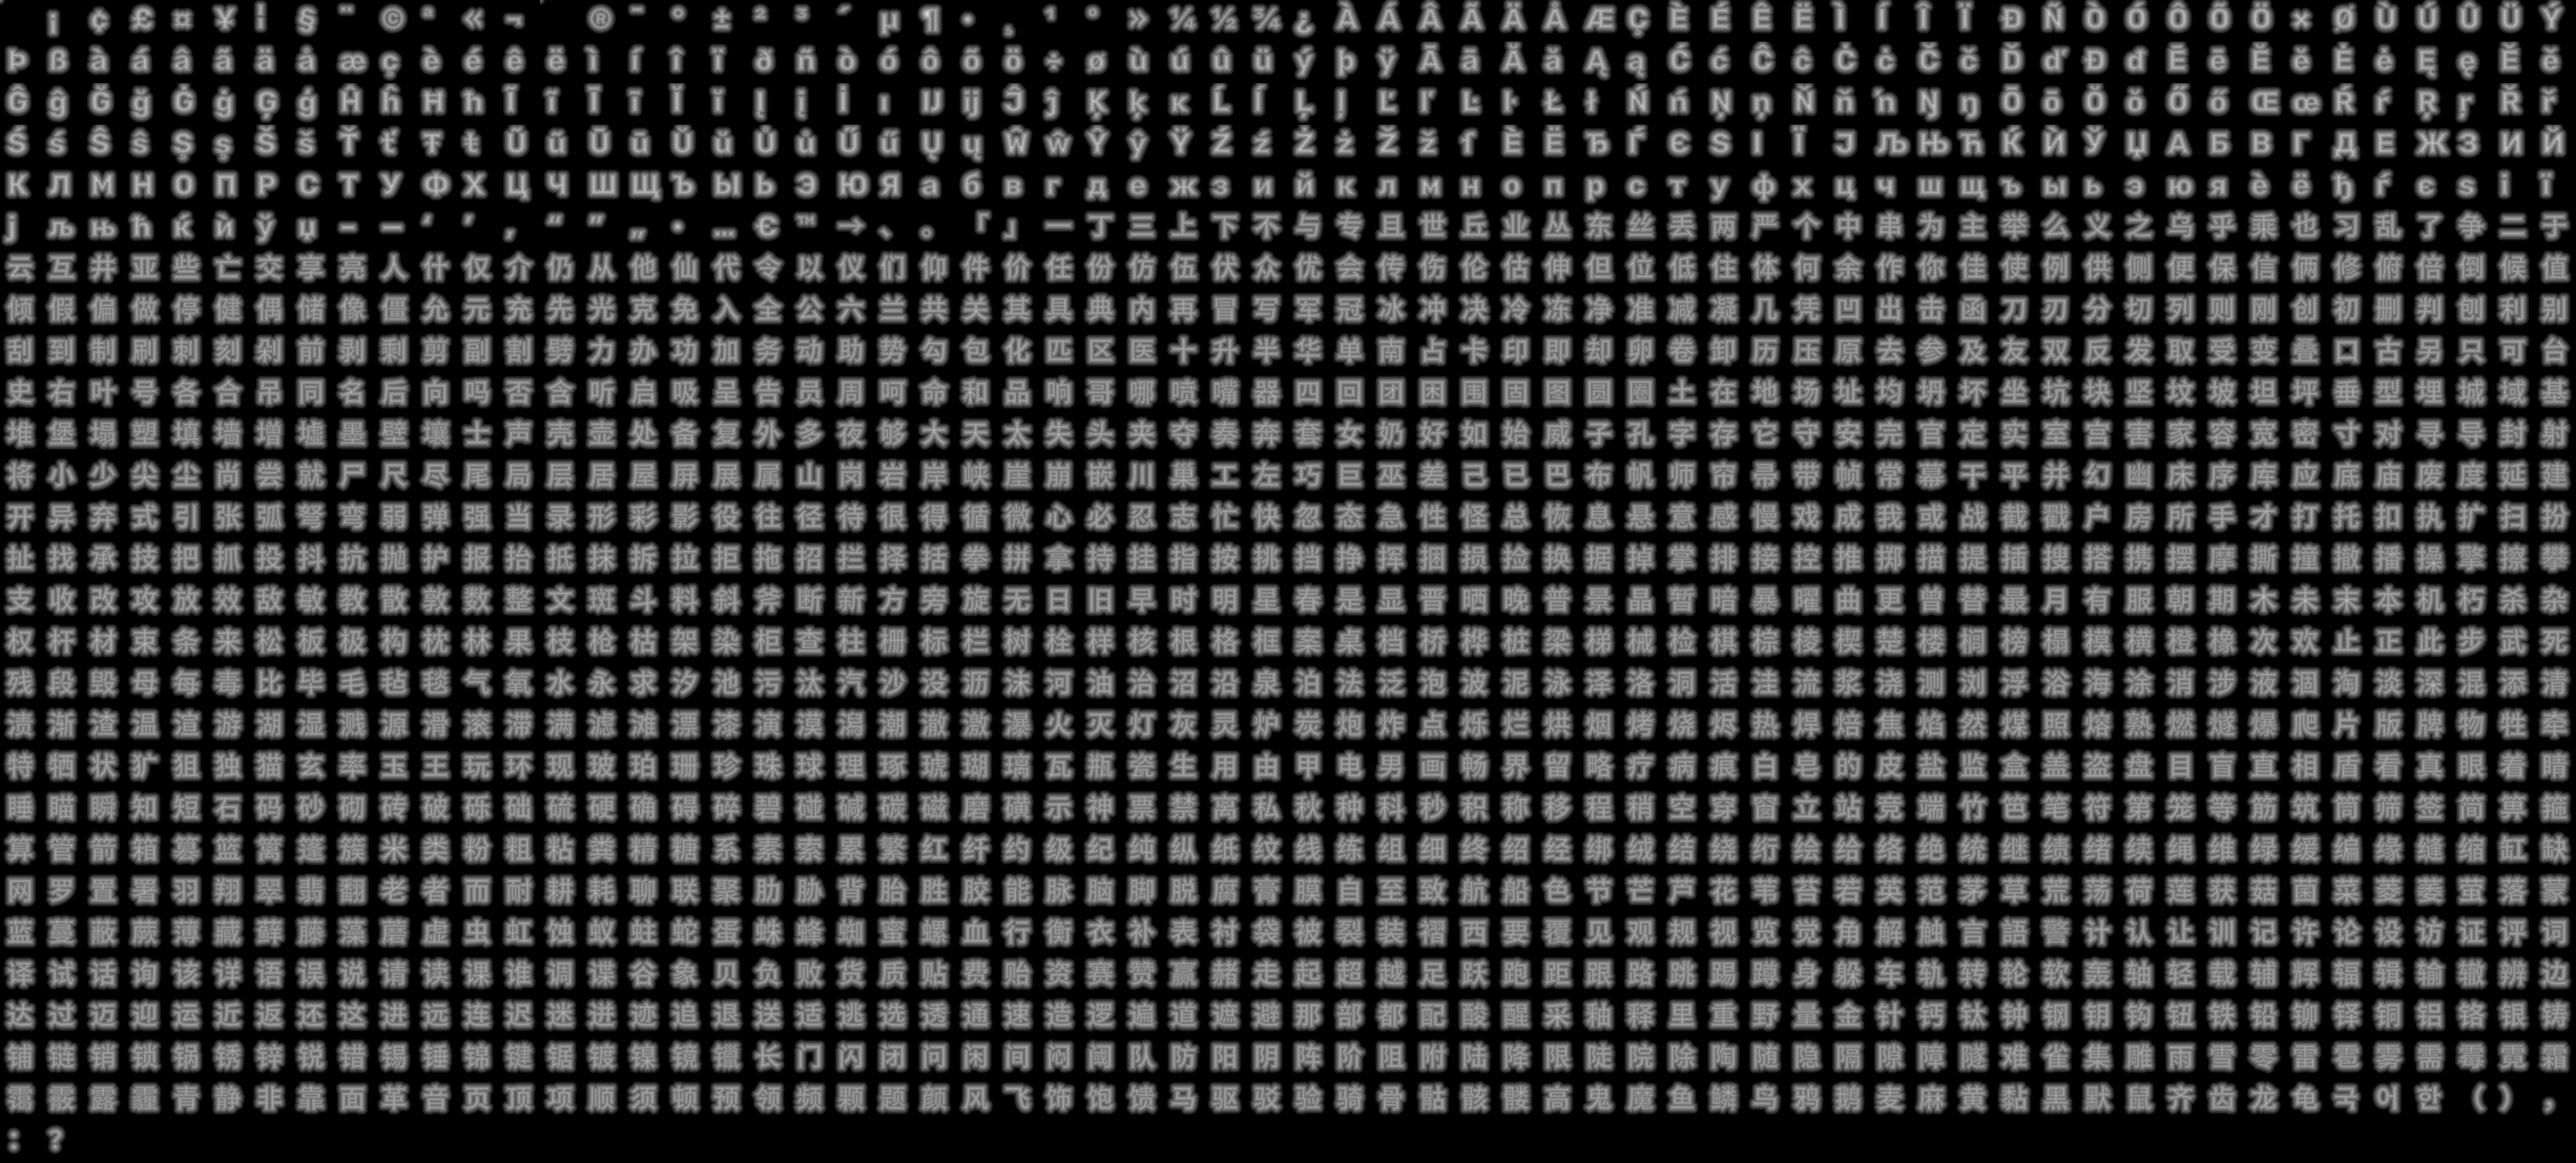
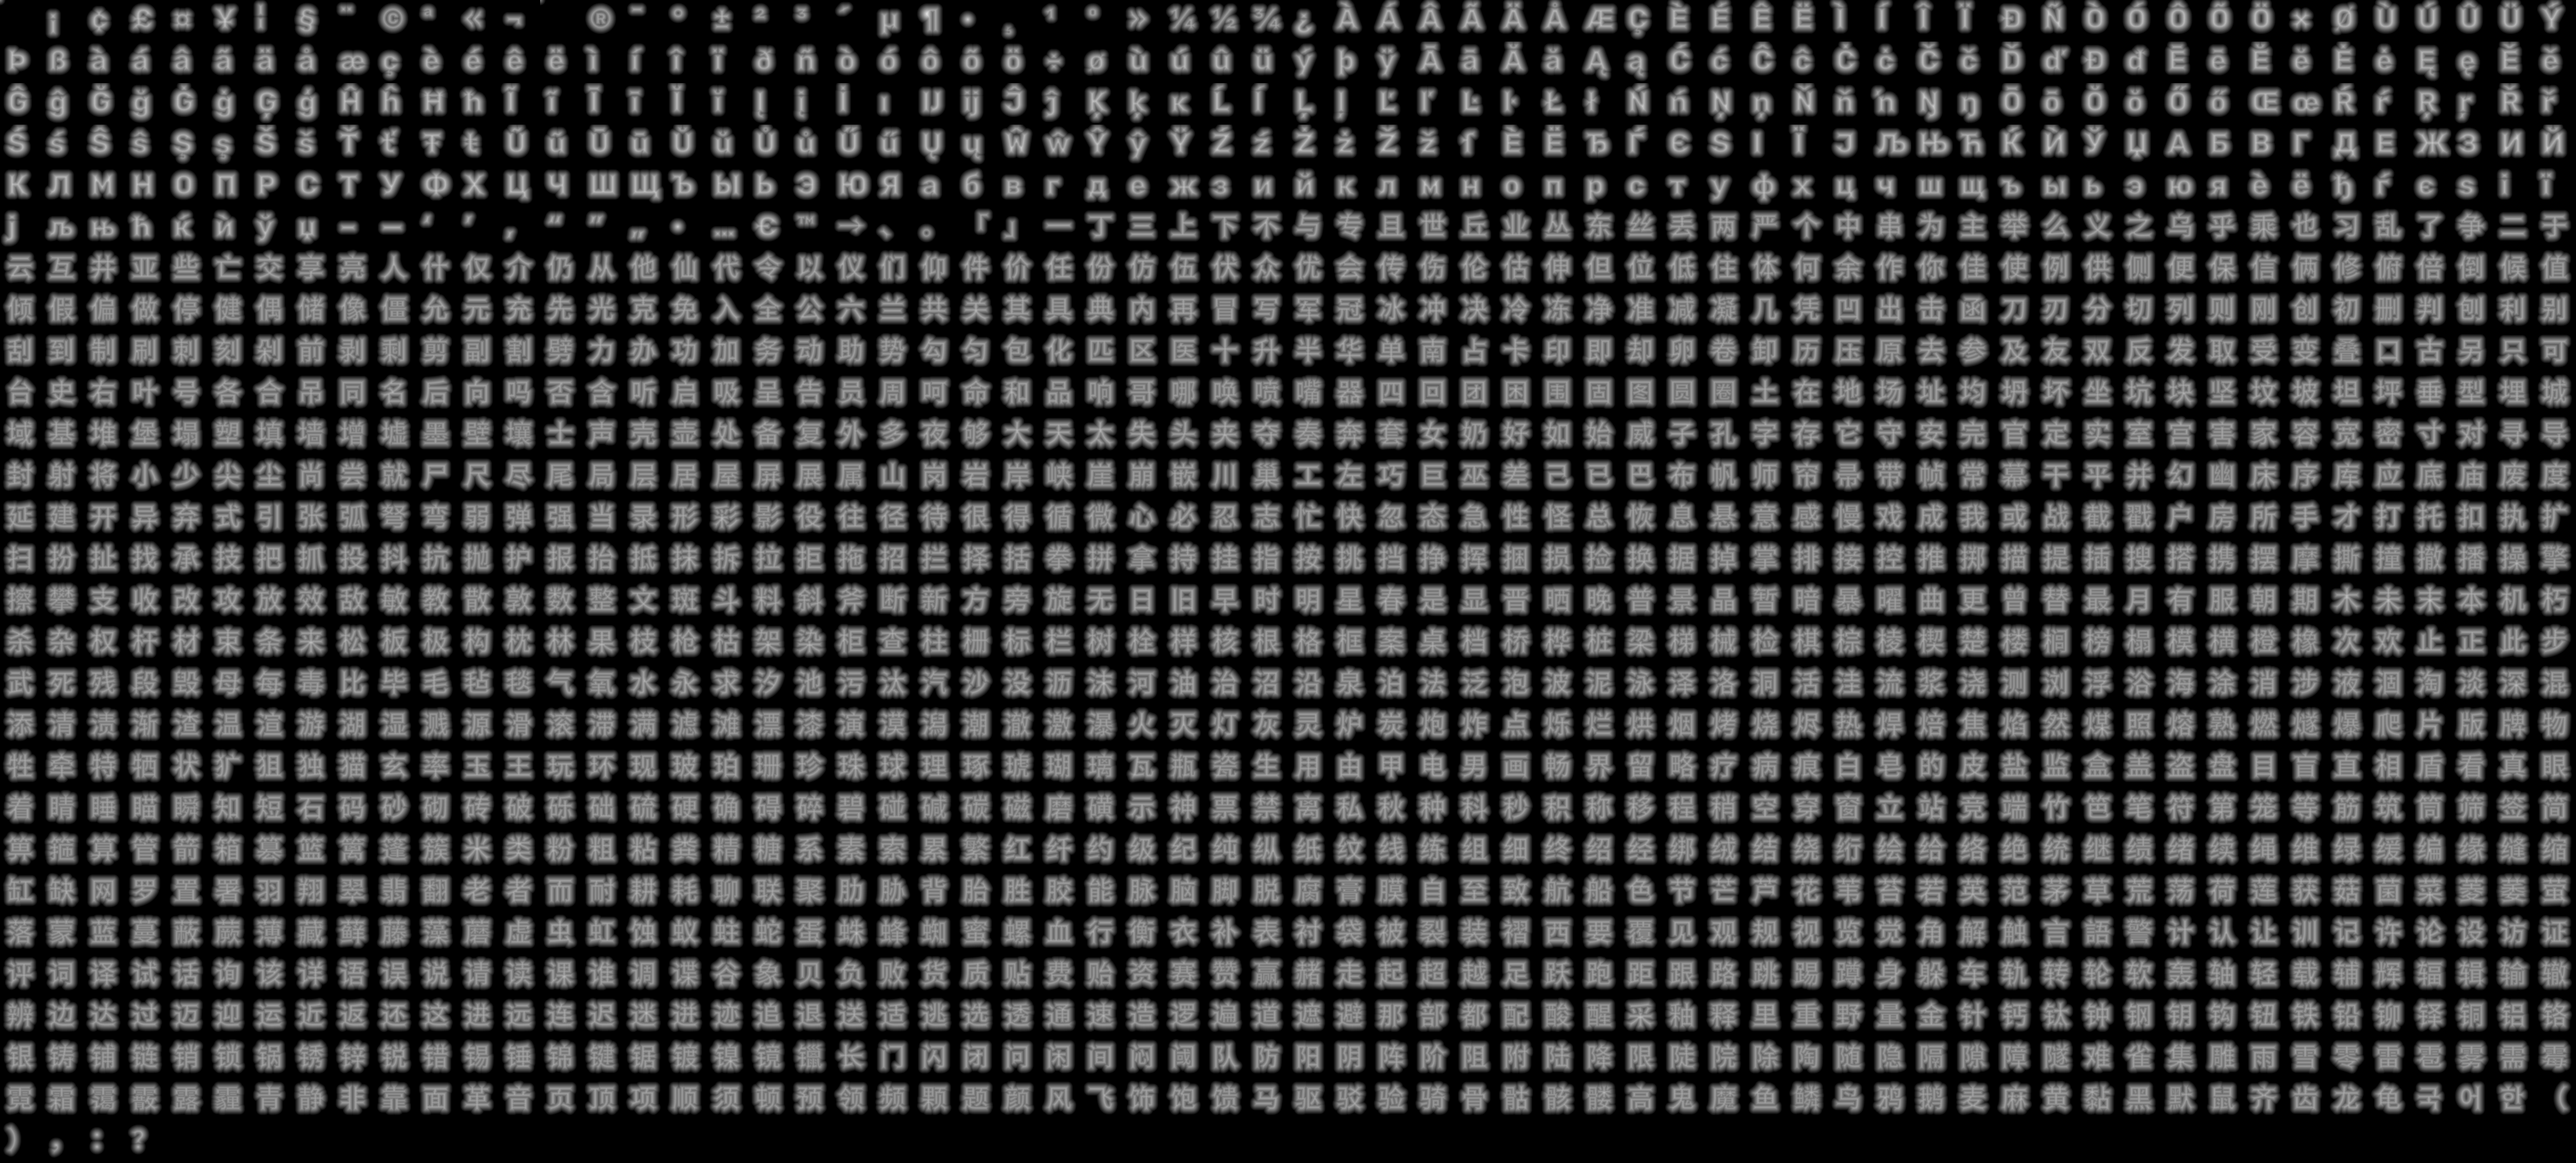
Frame cap offset setting; cursor re-hold only when it moved
Claude-Session: https://claude.ai/code/session_011AGrDgwsutW9dRne4uKF8H

diff --git a/src/client/config.cpp b/src/client/config.cpp
@@ -156,6 +156,7 @@ void Settings::set(const std::string& k, const std::string& v) {
             // AUTO. Any other value was picked and stays; 0, the lowest it had, is 1 us now (0 is AUTO; the same in practice).
             if (!ultraMarginMigrated) ultraMarginUs = ultraMarginUs == 150 ? 0 : ultraMarginUs == 0 ? 1 : ultraMarginUs;
         }
+        else if (k == "cap_offset_us") capOffsetUs = std::min(std::max(iv, -1), 5000);
         else if (k == "ultra_margin_auto") ultraMarginMigrated = iv != 0;
         else if (k == "display_default") displayMigrated = iv != 0;
         else if (k == "nv_threaded") nvThreaded = iv != 0;
@@ -449,7 +450,7 @@ std::string Settings::toText() const {
       << "\nfx_color_mode=" << fxColorMode << "\nfx_color=" << colorHex(fxColor) << "\nobj_palette=" << objPalette << "\nsky_override=" << skyOverride << "\nglow_override=" << glowOverride
       << "\nsky_color=" << colorHex(skyColor) << "\nglow_color=" << colorHex(glowColor) << "\nhigh_contrast=" << highContrast << "\nf3_safe=" << f3Safe << "\non_top=" << onTop << "\ngun_color=" << gunColor
       << "\ngun_custom=" << colorHex(gunCustom) << "\nobj_opacity=" << objOpacity << "\nobj_pulse=" << objPulse << "\ndash_buffer=" << dashBuffer << "\nsmooth_amt=" << smoothAmt << "\nlightmap_nearest=" << lightmapNearest
-      << "\nwallbang_tint=" << wallbangTint << "\nwallbang_color=" << colorHex(wallbangColor) << "\nultra_margin_auto=1" << "\nultra_margin_us=" << ultraMarginUs << "\nnv_threaded=" << nvThreaded << "\nnv_dxgi=" << nvDxgi
+      << "\nwallbang_tint=" << wallbangTint << "\nwallbang_color=" << colorHex(wallbangColor) << "\nultra_margin_auto=1" << "\nultra_margin_us=" << ultraMarginUs << "\ncap_offset_us=" << capOffsetUs << "\nnv_threaded=" << nvThreaded << "\nnv_dxgi=" << nvDxgi
       << "\nquip_captions=" << quipCaptions << "\nann_duck=" << annDuck;
     for (int i = 0; i < 3; i++) if (!colorPreset[i].empty()) f << "\ncolor_preset_" << i + 1 << "=" << colorPreset[i];
     for (auto& b : cmdBinds) f << "\ncbind_" << b.first << "=" << b.second;

diff --git a/src/client/main.cpp b/src/client/main.cpp
@@ -223,11 +223,17 @@ int main(int argc, char** argv) {
     while (!glfwWindowShouldClose(win) && !game.quitRequested()) {
         game.pipeMark(Game::PM_FRAME);   // (F3's pipeline graph: the frame's parts)
         // Frame cap: wait *before* reading input, so the frame shows the freshest input possible.
+        // FRAME CAP OFFSET (owner, 2026-11-03): it wakes that much before the deadline, does the parts that take a varying
+        // time (the low-latency GPU wait, the network), then spins to the deadline and reads the mouse there: one of them
+        // running 20-50 us long no longer makes that frame late and the next short (the 0.1% low at a 1000 cap).
+        bool capped = false;
         if (game.maxFps() > 0) {
             double period = 1.0 / game.maxFps();
             double target = frameStart + period;
-            capWait.wait(target);
-            frameStart = std::max(target, timeNow() - period); // keep the cadence (no slow drift below the cap), but don't try to catch up after a hitch
+            const double off = game.capOffset(period);
+            capWait.wait(target - off);
+            frameStart = std::max(target, timeNow() + off - period); // keep the cadence (no slow drift below the cap), but don't try to catch up after a hitch
+            capped = off > 0;
         } else {
             frameStart = timeNow();
         }
@@ -235,6 +241,7 @@ int main(int argc, char** argv) {
         game.beforeInput();
         game.pipeMark(Game::PM_FENCE);
         game.preInput();   // (the network: before the mouse is read)
+        if (capped) while (timeNow() < frameStart) cpuRelax();   // (the head start's rest: the mouse is read on the deadline)
         game.pipeMark(Game::PM_NET);
         game.readMouse();   // (raw mouse reports in one read; GLFW's poll gets the rest)
         { QZONE("poll events"); glfwPollEvents(); }

diff --git a/src/client/game.cpp b/src/client/game.cpp
@@ -8352,6 +8352,16 @@ void Game::drawMoreSettings(const SetLayout& L) {
             g.next();
             g.hint("LOW LATENCY: ULTRA STARTS EACH FRAME THIS EARLY;", "AUTO LEARNS IT; MORE: FEWER GPU BUBBLES, MORE LAG");
         }
+        {
+            float v = (float)cfg_.capOffsetUs;   // (-1, the far left: AUTO, 5% of the cap's frame; 0: off)
+            char autoTxt[48];
+            snprintf(autoTxt, sizeof autoTxt, "AUTO (%.0f US)", maxFps() > 0 ? capOffset(1.0 / maxFps()) * 1e6 : 0.0);
+            const std::string shown = cfg_.capOffsetUs < 0 ? (maxFps() > 0 ? std::string(autoTxt) : std::string("AUTO")) : cfg_.capOffsetUs == 0 ? std::string("OFF") : std::string("%.0f US");
+            ui_.slider(g.x(), g.top(), w, h, "FRAME CAP OFFSET", v, -1, 1000, shown.c_str(), UiExp::cfg("cap_offset_us"), (float)d.capOffsetUs);
+            cfg_.capOffsetUs = std::min(std::max(-1, (int)std::lround(v)), 5000);
+            g.next();
+            g.hint("FPS LIMIT: WAKES THIS EARLY, THEN WAITS EXACTLY TO THE", "FRAME'S START: EVEN FRAMES; AUTO 5% OF THE FRAME");
+        }
         if (ui_.toggle(g.x(), g.top(), hw, h, "NV THREADED OFF", cfg_.nvThreaded, UiExp::cfg("nv_threaded"))) {
             std::string msg = "NOT CHANGED IN THE UI TEST";
             if (!uiTest_ && !nvThreadedOff(cfg_.nvThreaded, &msg)) cfg_.nvThreaded = false;

diff --git a/src/client/config.h b/src/client/config.h
@@ -45,6 +45,7 @@ struct Settings {
     bool prioritize = true;     // Windows: GPU + CPU priority raised while the game has focus (setGamePriority)
     int lowLatency = 1;         // 0 off, 1 on (max 1 frame queued), 2 ultra (0 queued, just-in-time input)
     int maxFps = 0;             // 0 = unlimited
+    int capOffsetUs = -1;       // LATENCY > FRAME CAP OFFSET: the cap wakes this early, runs the GPU wait / network, then spins to the deadline before the mouse read; -1 AUTO (5% of the cap's frame), 0 off
     int width = 1280, height = 720;
     int winX = -100000, winY = -100000;   // the window's last position when windowed (-100000: never moved; 100 px in)
     int bgFps = 60;             // VIDEO > MORE: the frame cap while the window isn't focused or is minimized (0 = FPS LIMIT as usual)

diff --git a/src/client/game.h b/src/client/game.h
@@ -118,6 +118,11 @@ public:
     void shutdown();
     void frame(double dt);
     bool quitRequested() const { return quit_; }
+    // the frame cap's head start (s) for a cap of `period` s: LATENCY > FRAME CAP OFFSET (AUTO: 5% of the period)
+    double capOffset(double period) const {
+        const double o = cfg_.capOffsetUs < 0 ? period * 0.05 : cfg_.capOffsetUs * 1e-6;
+        return std::min(o, period * 0.5);   // (never more than half the frame: the rest is the frame's own)
+    }
     int maxFps() const {   // (VIDEO > MORE: WHEN UNFOCUSED caps it while the window is in the background or minimized)
         int cap = cfg_.maxFps;
         if (cfg_.vrr && vrrHz_ > 3) cap = cap > 0 ? std::min(cap, vrrHz_ - 3) : vrrHz_ - 3;   // (VRR: under the refresh, never at it)

diff --git a/src/client/rawmouse.cpp b/src/client/rawmouse.cpp
@@ -92,6 +92,12 @@ void RawMouse::hold(GLFWwindow* w, bool on) {
     POINT c = {(r.left + r.right) / 2, (r.top + r.bottom) / 2};
     ClientToScreen(h, &c);
     RECT one = {c.x, c.y, c.x + 1, c.y + 1};
+    // (called again every 0.5 s in case the window moved or Windows let the cursor go: when it's still held where it
+    // should be, nothing is set. SetCursorPos posts a mouse-move the next poll handles, and the two calls cost the
+    // frame ~8 us and the one after it ~20 us: a pair of late frames twice a second, owner's 1000 FPS cap runs 2026-11-03)
+    RECT cur;
+    POINT at;
+    if (GetClipCursor(&cur) && GetCursorPos(&at) && EqualRect(&cur, &one) && at.x == c.x && at.y == c.y) return;
     SetCursorPos(c.x, c.y);
     ClipCursor(&one);
 }

diff --git a/changelogs/full/next.md b/changelogs/full/next.md
@@ -80,7 +80,9 @@ Every change since 1.19.7, with what changed and why.
   - Not Windows: WINDOWS ONLY.
 
 - **The frame cap learns the timer's lateness** (owner, 2026-11-03: "even though i can hit several thousand minimum fps, when limiting to 1000 my lows are even as low as 600"). The owner's 1000 FPS benchmark (Hamlet, 26,917 frames) had avg 1000, a 1% low of 832 and a 0.1% low of 589. 347 frames were over 1.2 ms, in two fixed sizes, ~1.20 and ~1.70 ms, and 258 of them made a 2.00 ms pair with the short frame after. So the cap's sleep woke 0.2 / 0.7 ms late on Windows' timer grid, and the cadence pulled the next frame in. `waitUntil` slept until 0.3 ms before the deadline and trusted the timer for the rest. `CapWait` (net.h) records each sleep's lateness (20 µs bins, windows of 256) and sleeps only until the 99.9th percentile + 50 µs before the deadline, then spins. It rises at once and falls a quarter of the way per window, between 50 µs and 2.5 ms, starting at 1 ms. Trade-off: up to a core spinning instead of sleeping while capped (at 1000 FPS the spin can cover the whole wait). Other waits (latent sync, the server) keep `waitUntil`.
-- **The game thread: HIGHEST priority while focused, and no power throttling** (owner, 2026-11-03: "981 low is great for a 1000 cap, but can we do even better"). With CapWait, the 13:07 run's 47 frames over 1.015 ms each paired with a short one (pairs = 2.000 ms ±3 µs). So the cap woke on time, and the thread was then held up 20-50 µs before its input read (fence, network, poll). `setGamePriority` (gpuprefs.cpp) now also sets the main thread to THREAD_PRIORITY_HIGHEST (NORMAL when alt-tabbed). Once, it opts the process and the thread out of execution-speed power throttling (EcoQoS: Windows 11 can move a throttled thread to an E-core and slow it), and the process out of timer-resolution throttling. These are looked up at run time, so older Windows is unaffected. Not measured yet.
+- **The game thread: HIGHEST priority while focused, and no power throttling** (owner, 2026-11-03: "981 low is great for a 1000 cap, but can we do even better"). With CapWait, the 13:07 run's 47 frames over 1.015 ms each paired with a short one (pairs = 2.000 ms ±3 µs). So the cap woke on time, and the thread was then held up 20-50 µs before its input read (fence, network, poll). `setGamePriority` (gpuprefs.cpp) now also sets the main thread to THREAD_PRIORITY_HIGHEST (NORMAL when alt-tabbed). Once, it opts the process and the thread out of execution-speed power throttling (EcoQoS: Windows 11 can move a throttled thread to an E-core and slow it), and the process out of timer-resolution throttling. These are looked up at run time, so older Windows is unaffected. The owner's 13:25 run: 0.1% low 981 → 985, worst 1.052 → 1.025 ms. LOW LATENCY OFF (13:27) scored no better (981.7), so the GPU wait isn't the cause.
+- **The 2 Hz pair of late frames: the cursor re-hold.** Both runs had their biggest bumps exactly 500 frames apart: +8 µs, then two frames later +20 µs, each group adding up to 3.000 ms. That was `RawMouse::hold`, called every 0.5 s while captured (in case the window moved). It ran SetCursorPos (which posts a mouse-move for the next poll) and ClipCursor every time. Now it checks GetClipCursor / GetCursorPos first and sets nothing when the cursor is already held at the centre.
+- **LATENCY > FRAME CAP OFFSET** (owner, 2026-11-03: "add a latency setting for framecap offset, in us ... default framecap offset should be 5% of the frametime of the framecap"; "adding 0.05ms latency to make the framecap absolutely perfect is worth it imo"). With an FPS limit, the cap now wakes the offset before the deadline and runs the parts that vary (the low-latency GPU wait, the network). It then spins to the deadline and reads the mouse there (main.cpp). A hold-up shorter than the offset no longer moves the frame. The mouse is read on the deadline either way, so the input isn't older than before the setting. `cap_offset_us`: -1 AUTO (5% of the cap's frame: 50 µs at 1000, 250 µs at 200), 0 off, else µs, at most half the frame. 4 new translated lines.
 
 - **BENCHMARK result graph is a line** (owner, 2026-11-03: "it should be a line not a fill from the bottom graph, kind of like capframex has, and scale in so the highest and lowest frametimes make the bounds, show in us the bounds and average"). The graph was a fill up from 0 to each column's mean, topped at the next of 5 / 10 / 20 ... ms with 60 / 144 / 240 FPS lines. At a 1000 cap that put the whole run in a sliver. Now the y axis runs from the run's fastest to its slowest frame. A 1.5 px line goes through each column's mean frame (928 columns, one per 720p px; it was 464). Behind it, at 35%, is each column's fastest-to-slowest span (`graphColumns`' new `minMs`), so a spike the mean averages out still shows. MAX / MIN / AVG are labelled in µs (the average as a dashed line). The FPS reference lines are gone (they'd be off this scale). 3 new translated lines.
 

diff --git a/changelogs/next.md b/changelogs/next.md
@@ -30,6 +30,8 @@
 ## Latency
 - BENCHMARK results: the frame-time graph is now a line, zoomed so the run's fastest and slowest frames are its edges, with MIN, MAX and AVG shown in µs. Each frame's spread shows faintly behind the line.
 - FPS LIMIT holds its rate much more evenly: the limiter used to wake up late now and then (a 1000 cap's 0.1% low was 589). It now learns how late your PC's timer wakes and spins the rest, so capped frames come out on time. While the game has focus, its main thread also runs at the highest priority, and Windows 11 can no longer throttle it onto an efficiency core.
+- New LATENCY setting, FRAME CAP OFFSET: with an FPS limit on, the game wakes this much early, does its network and GPU check, and then reads your mouse exactly on the beat, so small hold-ups no longer make a frame late. AUTO is 5% of a frame (50 µs at 1000). You can set it in µs or turn it OFF.
+- Fixed a tiny hitch twice a second while the mouse is captured: the game re-centred the cursor every half second even when it was already there.
 - F3's graph: the gap between SWAP and the GPU no longer creeps up for 10 seconds and then snaps back. That was the measurement, not your frames. The graph also updates 10 times a second now, not twice.
 - **New LATENCY settings tab**, with every latency tweak on its own switch so you can try each combination and compare them in F3 (which now names the tweaks it was taken with):
   - LOW LATENCY (OFF / ON / ULTRA), EARLY FLUSH, CPU LATE LATCH, **GPU LATE LATCH** (new: on Windows the graphics card reads your newest mouse movement as it starts drawing the world, after the frame was sent; off by default) and **HUD BEFORE WORLD** (new, ULTRA only: the HUD is drawn before the last mouse read and laid over the world after it; off by default).
